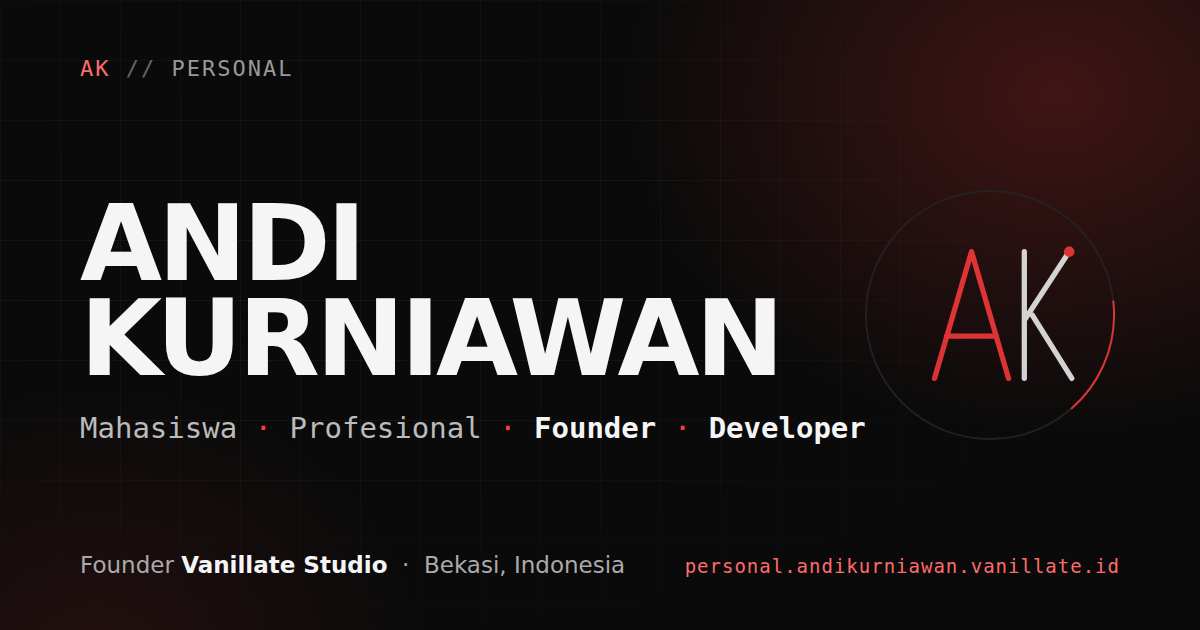
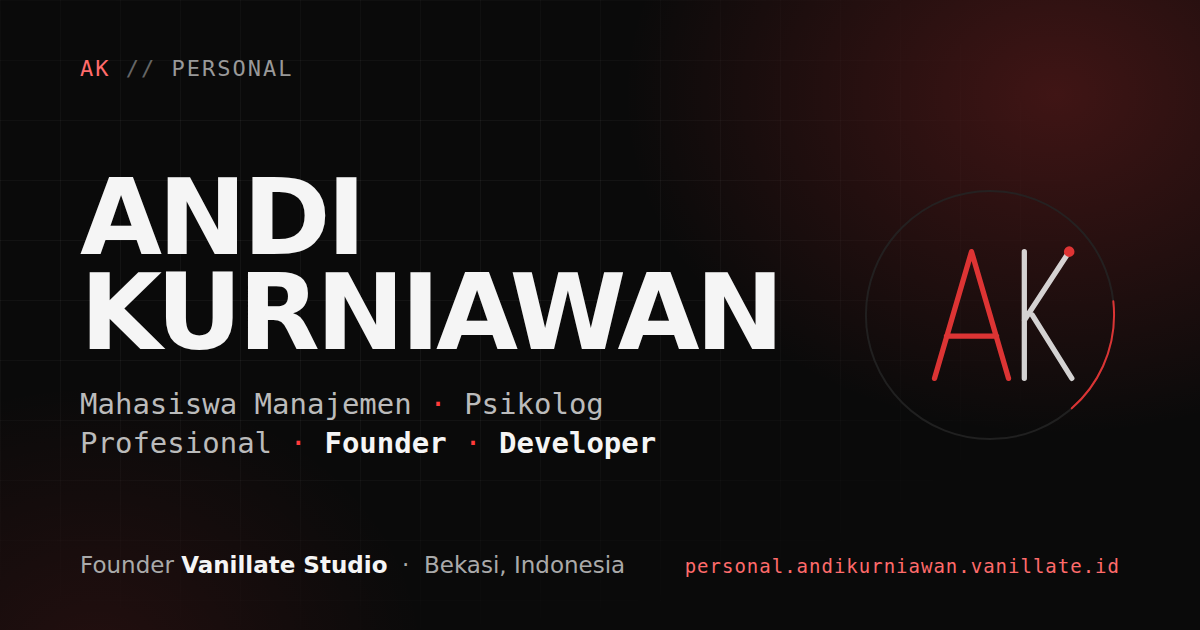
feat(personal): tambah Mahasiswa Manajemen & Psikolog, perbarui arah Berikutnya
- Peran (hero, chip Tentang, kartu "Sekarang"): "Mahasiswa" menjadi
  "Mahasiswa Manajemen", ditambah "Psikolog" (EN: Management Student,
  Psychologist).
- Arah dan perkembangan > Berikutnya: "HR, Administrasi, dan Team Lead"
  (EN: HR, Administration, and Team Lead).
- Meta title/description, og:image:alt, dan gambar OG ikut diperbarui;
  baris peran di gambar OG dipecah dua baris agar tidak menabrak monogram.
- Kartu karier: daftar item tetap di samping label dan membungkus di
  kolomnya sendiri, supaya baris yang lebih panjang tidak turun ke bawah
  label di desktop.

Claude-Session: https://claude.ai/code/session_01XXkZXhhgXNyFubAbLFY8qf

Changed region(s): [[0.0617, 0.2714, 0.6475, 0.7238], [0.5858, 0.6635, 0.74, 0.6937]]

diff --git a/personal-site/src/data/content.ts b/personal-site/src/data/content.ts
@@ -226,9 +226,9 @@ type Copy = {
 export const content: Record<Locale, Copy> = {
   // ═══════════════════════════════════════ INDONESIA (canonical) ═══════════
   id: {
-    metaTitle: 'Andi Kurniawan, Mahasiswa, Profesional, Founder dan Developer',
+    metaTitle: 'Andi Kurniawan, Mahasiswa Manajemen, Psikolog, Profesional, Founder dan Developer',
     metaDescription:
-      'Andi Kurniawan adalah mahasiswa, profesional, founder Vanillate Studio, dan developer yang berbasis di Bekasi, Indonesia. Berkarya di bidang management, data, teknologi, dan pengembangan produk digital.',
+      'Andi Kurniawan adalah mahasiswa manajemen, psikolog, profesional, founder Vanillate Studio, dan developer yang berbasis di Bekasi, Indonesia. Berkarya di bidang management, data, teknologi, dan pengembangan produk digital.',
     nav: { about: 'Tentang', work: 'Karya', vanillate: 'Vanillate', contact: 'Kontak' },
     a11y: {
       skip: 'Lewati ke konten utama',
@@ -237,7 +237,7 @@ export const content: Record<Locale, Copy> = {
       menu: 'Buka menu navigasi',
     },
     hero: {
-      roles: ['Mahasiswa', 'Profesional', 'Founder', 'Developer'],
+      roles: ['Mahasiswa Manajemen', 'Psikolog', 'Profesional', 'Founder', 'Developer'],
       lead: 'Saya suka membangun produk digital. Biasanya berawal dari satu ide dan baris kode pertama, lalu tumbuh jadi sesuatu yang benar-benar dipakai orang.',
       ctaPrimary: 'Lihat Karya',
       ctaSecondary: 'LinkedIn',
@@ -247,7 +247,7 @@ export const content: Record<Locale, Copy> = {
       eyebrow: 'Mengenal Andi',
       title: 'Dari management ke data, teknologi, lalu membangun.',
       body: 'Saya mulai dari dunia management, lalu penasaran dengan data, dan akhirnya keterusan di teknologi. Sekarang sebagian besar waktu saya habis buat membuat dan merawat produk lewat Vanillate Studio.',
-      identity: ['Mahasiswa', 'Profesional', 'Founder', 'Developer'],
+      identity: ['Mahasiswa Manajemen', 'Psikolog', 'Profesional', 'Founder', 'Developer'],
       stats: [
         { value: '2+', label: 'Tahun Pengalaman' },
         { value: '2026', label: 'Vanillate Studio' },
@@ -333,9 +333,9 @@ export const content: Record<Locale, Copy> = {
     career: {
       eyebrow: 'Ke Mana Arah Berikutnya?',
       title: 'Arah dan perkembangan.',
-      now: { label: 'Sekarang', items: ['Mahasiswa', 'Profesional', 'Founder'] },
+      now: { label: 'Sekarang', items: ['Mahasiswa Manajemen', 'Psikolog', 'Profesional', 'Founder'] },
       focus: { label: 'Fokus', items: ['Management', 'Data', 'Technology', 'Leadership'] },
-      next: { label: 'Berikutnya', items: ['HR dan Team Lead'] },
+      next: { label: 'Berikutnya', items: ['HR, Administrasi, dan Team Lead'] },
     },
     contact: {
       eyebrow: 'Kontak',
@@ -399,9 +399,9 @@ export const content: Record<Locale, Copy> = {
 
   // ═══════════════════════════════════════════════ ENGLISH ════════════════
   en: {
-    metaTitle: 'Andi Kurniawan, Student, Professional, Founder and Developer',
+    metaTitle: 'Andi Kurniawan, Management Student, Psychologist, Professional, Founder and Developer',
     metaDescription:
-      'Andi Kurniawan is a student, professional, founder of Vanillate Studio, and developer based in Bekasi, Indonesia. Working across management, data, technology, and digital product development.',
+      'Andi Kurniawan is a management student, psychologist, professional, founder of Vanillate Studio, and developer based in Bekasi, Indonesia. Working across management, data, technology, and digital product development.',
     nav: { about: 'About', work: 'Work', vanillate: 'Vanillate', contact: 'Contact' },
     a11y: {
       skip: 'Skip to main content',
@@ -410,7 +410,7 @@ export const content: Record<Locale, Copy> = {
       menu: 'Open navigation menu',
     },
     hero: {
-      roles: ['Student', 'Professional', 'Founder', 'Developer'],
+      roles: ['Management Student', 'Psychologist', 'Professional', 'Founder', 'Developer'],
       lead: 'I like building digital products. It usually starts with one idea and a line of code, then grows into something people actually use.',
       ctaPrimary: 'View Work',
       ctaSecondary: 'LinkedIn',
@@ -420,7 +420,7 @@ export const content: Record<Locale, Copy> = {
       eyebrow: 'Meet Andi',
       title: 'From management to data, technology, then building.',
       body: 'I started out in management, got curious about data, and ended up hooked on technology. These days most of my time goes into building and maintaining products through Vanillate Studio.',
-      identity: ['Student', 'Professional', 'Founder', 'Developer'],
+      identity: ['Management Student', 'Psychologist', 'Professional', 'Founder', 'Developer'],
       stats: [
         { value: '2+', label: 'Years of Experience' },
         { value: '2026', label: 'Vanillate Studio' },
@@ -506,9 +506,9 @@ export const content: Record<Locale, Copy> = {
     career: {
       eyebrow: "Where To Next?",
       title: 'Direction and growth.',
-      now: { label: 'Now', items: ['Student', 'Professional', 'Founder'] },
+      now: { label: 'Now', items: ['Management Student', 'Psychologist', 'Professional', 'Founder'] },
       focus: { label: 'Focus', items: ['Management', 'Data', 'Technology', 'Leadership'] },
-      next: { label: 'Next', items: ['HR and Team Lead'] },
+      next: { label: 'Next', items: ['HR, Administration, and Team Lead'] },
     },
     contact: {
       eyebrow: 'Contact',

diff --git a/personal-site/scripts/og-template.html b/personal-site/scripts/og-template.html
@@ -31,13 +31,13 @@
   .wrap { position: relative; z-index: 2; height: 630px; padding: 56px 80px; }
   .mono { font-family: "DejaVu Sans Mono", "Liberation Mono", monospace; }
   .top { position: absolute; top: 56px; left: 80px; font-size: 22px; letter-spacing: 2px; }
-  .mid { position: absolute; top: 196px; left: 80px; }
+  .mid { position: absolute; top: 170px; left: 80px; }
   .name {
     max-width: 780px;
     font-size: 106px; font-weight: 800; letter-spacing: -4px; line-height: 0.9;
     text-transform: uppercase;
   }
-  .roles { margin-top: 24px; font-size: 29px; color: #BBB; }
+  .roles { margin-top: 24px; font-size: 29px; line-height: 1.35; color: #BBB; }
   .roles b { color: #F5F5F5; font-weight: 600; }
   .dotsep { color: #FF3B3B; }
   .foot { position: absolute; left: 80px; right: 80px; bottom: 52px; display: flex; align-items: baseline; justify-content: space-between; gap: 24px; }
@@ -65,7 +65,7 @@
     </div>
     <div class="mid">
       <div class="name">Andi<br>Kurniawan</div>
-      <div class="roles mono">Mahasiswa <span class="dotsep">·</span> Profesional <span class="dotsep">·</span> <b>Founder</b> <span class="dotsep">·</span> <b>Developer</b></div>
+      <div class="roles mono">Mahasiswa Manajemen <span class="dotsep">·</span> Psikolog<br>Profesional <span class="dotsep">·</span> <b>Founder</b> <span class="dotsep">·</span> <b>Developer</b></div>
     </div>
     <div class="foot">
       <div class="loc">Founder <b>Vanillate Studio</b> &nbsp;·&nbsp; Bekasi, Indonesia</div>
